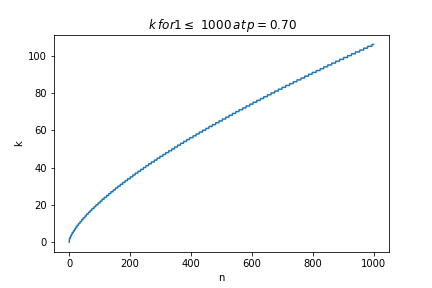
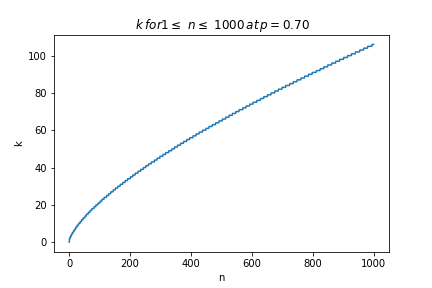
update zip function

Changed region(s): [[0.3009, 0.0625, 0.7222, 0.125]]

diff --git a/prob4.py b/prob4.py
@@ -26,7 +26,7 @@ def zipfunc(n,p):
         a= 1/constant_set(k_prime)
         b=p/constant_set(m+1)
         while a < b:
-            print(k_prime)
+            print("k = "+str(k_prime)+" at n = "+str(m+1))
             print("%f < %f " % (a,b))
             k_prime = k_prime + 1
             k[m] =k_prime      
@@ -48,7 +48,8 @@ k3=zipfunc(n,p3)
 plt.plot(k1)
 plt.ylabel('k')
 plt.xlabel('n')
-plt.title(r'$\:k\, for 1 \leq\ n \leq\ %d \,at\,p = %0.2f $' %(n,p1))
+plt.title(r'$\:k\, for 1 \leq\ n \leq\ %d $' %(n))
+plt.legend(['p='+str(p1)],loc=2)
 
 plt.savefig('result4_p=%0.2f.png' %(p1))
 plt.show()
@@ -56,7 +57,8 @@ plt.show()
 plt.plot(k2)
 plt.ylabel('k')
 plt.xlabel('n')
-plt.title(r'$\:k\, for 1 \leq\ n \leq\ %d \,at\,p = %0.2f $' %(n,p2))
+plt.title(r'$\:k\, for 1 \leq\ n \leq\ %d $' %(n))
+plt.legend(['p='+str(p1)],loc=2)
 
 plt.savefig('result4_p=%0.2f.png' %(p2))
 plt.show()
@@ -65,7 +67,8 @@ plt.show()
 plt.plot(k3)
 plt.ylabel('k')
 plt.xlabel('n')
-plt.title(r'$\:k\, for 1 \leq\ n \leq\ %d \,at\,p = %0.2f $' %(n,p3))
+plt.title(r'$\:k\, for 1 \leq\ n \leq\ %d $' %(n))
+plt.legend(['p='+str(p2),'p='+str(p2),'p='+str(p3)],loc=2)
 
 plt.savefig('result4_p=%0.2f.png' %(p3))
 plt.show()
@@ -76,7 +79,7 @@ line_chart4 = plt.plot(k3)
 plt.title(r'$\:k\, for 1 \leq\ n \leq\ %d $' %(n))
 plt.ylabel('k')
 plt.xlabel('n')
-plt.legend(['p='+str(p1),'p='+str(p2),'p='+str(p3)],loc=1)
+plt.legend(['p='+str(p3)],loc=2)
 
 plt.show()
 
